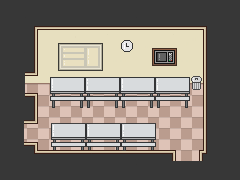
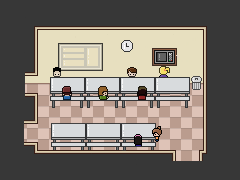
minor fixes

diff --git a/src/components/LevelTwoComponents.java b/src/components/LevelTwoComponents.java
@@ -70,53 +70,55 @@ public class LevelTwoComponents extends ScreenComponent {
 
         // the dialogue to be displayed in dialogue popups.
         String[] dialogue = {
-                "Let's play a game. I have these cards with questions and answers on them, and you pick what you think is the best answer.",
+                "What did you call me for?",
+                "I want us to play a game. I have these cards with questions and answers on them, and you pick what you think is the best answer.",
                 "Hm. Thanks for the advice, I guess?",
                 "Trust me. If you do the right things, you'll get over it.",
                 "I've experienced social anxiety myself. These cards helped me a ton. Listen, none of your fears are real. Get out there and try!",
                 "*Convinced* I- You didn't tell me?",
                 "For the same reason you didn't tell me.",
-                "Well then, thanks. I guess."
+                "Well then, thanks. I guess.",
         };
 
-        levelTwoDialogue = new DialoguePopup[7];
+        levelTwoDialogue = new DialoguePopup[8];
         levelTwoDialogue[0] = new DialoguePopup(
+                new ImageView(Tools.getImage(Constants.YOUNGER_SIBLING, 240, 280, true, true)),
+                "Younger Sibling", dialogue[0], () ->
+        {
+            this.setActivePopup(levelTwoDialogue[1]);
+        });
+        levelTwoDialogue[1] = new DialoguePopup(
                 new ImageView(Tools.getImage(Constants.OLDER_SIBLING, 240, 280, true, true)),
-                "Older Sibling", dialogue[0], () ->
+                "Older Sibling", dialogue[1], () ->
         {
             this.setActivePopup(null);
             this.setCurrentQuestion(questions[0]);
         });
-        for (int i = 1; i <= 6; ++i) {
+        for (int i = 2; i <= 7; ++i) {
             int finalI = i;
             levelTwoDialogue[i] = new DialoguePopup(
                     new ImageView(Tools.getImage(
-                            (i == 1 || i == 4 || i == 6) ? Constants.YOUNGER_SIBLING : Constants.OLDER_SIBLING, 240, 280, true, true)),
-                            (i == 1 || i == 4 || i == 6) ? "Younger Sibling" : "Older Sibling", dialogue[i], () -> {
-                this.setActivePopup(finalI == 6 ? null : levelTwoDialogue[finalI + 1]);
+                            (i == 2 || i == 5 || i == 7) ? Constants.YOUNGER_SIBLING : Constants.OLDER_SIBLING, 240, 280, true, true)),
+                            (i == 2 || i == 5 || i == 7) ? "Younger Sibling" : "Older Sibling", dialogue[i], () -> {
+                this.setActivePopup(finalI == 7 ? null : levelTwoDialogue[finalI + 1]);
             });
         }
         //level ending popup
         Popup ending = new Popup(() -> ((LevelTwoScreen) this.getScene()).nextScene());
-        levelTwoDialogue[6].setOnChangeRequest(() -> this.setActivePopup(ending));
+        levelTwoDialogue[7].setOnChangeRequest(() -> this.setActivePopup(ending));
         Rectangle bg = new Rectangle(0, 0, 960, 720);
         bg.setFill(Color.BLACK);
-        Text complete = new Text(250, 450, "Level 2 Completed.");
+        Text complete = new Text(250, 320, "Level 2 Completed.");
         complete.setFont(Tools.getCustomFont(Constants.PIXEL_FONT, 48));
         complete.setPickOnBounds(false);
         complete.setMouseTransparent(true);
         complete.setFill(Color.WHITE);
-        Text ret = new Text(110, 550, "SPACE to return to level select.");
+        Text ret = new Text(110, 450, "SPACE to return to level select.");
         ret.setFont(Tools.getCustomFont(Constants.PIXEL_FONT, 48));
         ret.setPickOnBounds(false);
         ret.setMouseTransparent(true);
         ret.setFill(Color.WHITE);
         ending.getChildren().addAll(bg, complete, ret);
-    }
-
-    // for improvement later
-    private void cardAnimations() {
-
     }
 
     /**
@@ -191,7 +193,7 @@ public class LevelTwoComponents extends ScreenComponent {
 
         if (curQuestionNum == TOTAL_QUESTIONS-1) {
             this.setCurrentQuestion(null);
-            this.setActivePopup(levelTwoDialogue[1]);
+            this.setActivePopup(levelTwoDialogue[2]);
         }
         else this.setCurrentQuestion(questions[++curQuestionNum]);
     }

diff --git a/src/components/LevelThreeComponents.java b/src/components/LevelThreeComponents.java
@@ -1,13 +1,11 @@
 package components;
 
 import javafx.scene.Cursor;
-import javafx.scene.image.Image;
 import javafx.scene.image.ImageView;
 import javafx.scene.paint.Color;
 import javafx.scene.shape.Rectangle;
 import javafx.scene.text.Text;
 import javafx.scene.text.TextAlignment;
-import scenes.LevelOneScreen;
 import scenes.LevelThreeScreen;
 import utilities.Constants;
 import utilities.Entity;
@@ -22,7 +20,7 @@ import java.util.Scanner;
 
 public class LevelThreeComponents extends ScreenComponent {
 
-    public static final int TOTAL_DIALOGUE = 6;
+    public static final int TOTAL_DIALOGUE = 7;
     public static final int TOTAL_ROOMS = 16;
     public static final int TOTAL_MINIGAMES = 5;
 
@@ -72,7 +70,8 @@ public class LevelThreeComponents extends ScreenComponent {
                 "Woah, the library! Maybe I can find the book I need for English class here.",
                 "I'm hungry, maybe I should buy something here.",
                 "I's lunchtime... maybe I should try talking with others instead of eating in the bathroom again.",
-                "Wow. Math. My favourite subject. I love math. Yay."
+                "Wow. Math. My favourite subject. I love math. Yay.",
+                "This door is locked."
         };
         for (int i = 0; i < TOTAL_DIALOGUE; ++i) {
             levelThreeDialogue[i] = new DialoguePopup(
@@ -199,6 +198,9 @@ public class LevelThreeComponents extends ScreenComponent {
             if (tasksComplete()) setActivePopup(ending);
             else setActivePopup(levelThreeDialogue[1]);
         });
+        schoolRooms[3].getRoomChangers().get(0).setOnChangeRequest(() -> {
+            setActivePopup(levelThreeDialogue[6]);
+        });
         schoolRooms[4].setRoomEnteredChangeRequest(() -> {
             if (!roomFound[4]) setActivePopup(levelThreeDialogue[2]);
         });
@@ -252,7 +254,7 @@ public class LevelThreeComponents extends ScreenComponent {
         schoolRooms[4].getRoomChangers().add(libMinigameLauncher);
         schoolRooms[4].getChildren().add(libMinigameLauncher);
 
-        roomFound[0] = true;
+        roomFound[0] = roomFound[3] = roomFound[8] = roomFound[11] = roomFound[13] = true;
         setCurrentRoom(schoolRooms[0]);
     }
 
@@ -268,8 +270,8 @@ public class LevelThreeComponents extends ScreenComponent {
         minigames[1] = new FriendMinigame(new ImageView(Tools.getImage(new File(Constants.DATA_PATH + "rooms\\cafeteria.png"),
                 960, 720, true, true)), this);
         minigames[2] = new ShopMinigame(new ImageView(Tools.getImage(Constants.CASHIER, 960, 720, true, true)), this);
-        minigames[3] = new PresentationMinigame(new ImageView(Tools.getImage(Constants.TEACHER, 960, 720, true, true)), this);
-        minigames[4] = new LibraryMinigame(new ImageView(Tools.getImage(Constants.LIBRARIAN, 960, 720, true, true)), this);
+        minigames[3] = new PresentationMinigame(new ImageView(Tools.getImage(Constants.TEACHER_BACKGROUND_1, 960, 720, true, true)), this);
+        minigames[4] = new LibraryMinigame(new ImageView(Tools.getImage(Constants.LIBRARIAN_BACKGROUND, 960, 720, true, true)), this);
     }
 
     private void setupAgenda() {
@@ -284,7 +286,11 @@ public class LevelThreeComponents extends ScreenComponent {
             "find the book for English at the library"
         };
         ImageView page = new ImageView(Tools.getImage(Constants.JOURNAL_BOX, 960, 720, true, true));
-        agenda.getChildren().add(page);
+
+        Rectangle darken = new Rectangle(0, 0, 960, 720);
+        darken.setFill(Color.color(0, 0, 0, 0.75));
+
+        agenda.getChildren().addAll(darken, page);
 
         checks = new ImageView[TOTAL_MINIGAMES];
 
@@ -306,7 +312,7 @@ public class LevelThreeComponents extends ScreenComponent {
         }
 
         agendaIcon = new ImageView(Tools.getImage(Constants.JOURNAL_ICON_2, 100, 100, true, true));
-        agendaIcon.setX(20);
+        agendaIcon.setX(820);
         agendaIcon.setY(100);
         agendaIcon.setOnMouseClicked(event -> {
             setActivePopup(agenda);

diff --git a/src/components/LibraryMinigame.java b/src/components/LibraryMinigame.java
@@ -59,7 +59,7 @@ public class LibraryMinigame extends Minigame {
         };
 
         minigameDialogue[0] = new DialoguePopup(
-                new ImageView(Tools.getImage(Constants.OLDER_SIBLING, 1, 1, true, true)),
+                new ImageView(Tools.getImage(Constants.LIBRARIAN, 240, 280, true, true)),
                 "Librarian", dialogue[0], () -> {
                     controller.setActivePopup(null);
                     choice.setVisible(true);
@@ -67,7 +67,7 @@ public class LibraryMinigame extends Minigame {
         );
 
         minigameDialogue[1] = new DialoguePopup(
-                new ImageView(Tools.getImage(Constants.OLDER_SIBLING, 1, 1, true, true)),
+                new ImageView(Tools.getImage(Constants.LIBRARIAN, 240, 280, true, true)),
                 "Librarian", dialogue[1], () -> {
             controller.setActivePopup(minigameDialogue[4]);
             controller.setActiveMinigame(null);
@@ -75,7 +75,7 @@ public class LibraryMinigame extends Minigame {
         );
 
         minigameDialogue[2] = new DialoguePopup(
-                new ImageView(Tools.getImage(Constants.OLDER_SIBLING, 1, 1, true, true)),
+                new ImageView(Tools.getImage(Constants.LIBRARIAN, 240, 280, true, true)),
                 "Librarian", dialogue[2], () -> {
             controller.setActivePopup(null);
             controller.setActiveMinigame(null);

diff --git a/src/utilities/Constants.java b/src/utilities/Constants.java
@@ -115,11 +115,19 @@ public class Constants {
 
     public static final File GOOD_CARD_DOWN = new File(DATA_PATH + "goodcarddown.png");
 
+    public static final File LIBRARIAN_BACKGROUND = new File(DATA_PATH + "librarianbackground.png");
+
     public static final File LIBRARIAN = new File(DATA_PATH + "librarian.png");
 
-    public static final File TEACHER = new File(DATA_PATH + "teacher.png");
+    public static final File TEACHER_BACKGROUND_1 = new File(DATA_PATH + "teacherbackground1.png");
+
+    public static final File TEACHER_1 = new File(DATA_PATH + "teacher1.png");
+
+    public static final File TEACHER_2 = new File(DATA_PATH + "teacher2.png");
 
     public static final File CASHIER = new File(DATA_PATH + "cashier.png");
+
+    public static final File STUDENT = new File(DATA_PATH + "student.png");
 
     public static final File CHECKBOX = new File(DATA_PATH + "checkbox.png");
 

diff --git a/src/components/MathMinigame.java b/src/components/MathMinigame.java
@@ -59,7 +59,7 @@ public class MathMinigame extends Minigame {
         };
 
         minigameDialogue[0] = new DialoguePopup(
-                new ImageView(Tools.getImage(Constants.OLDER_SIBLING, 1, 1, true, true)),
+                new ImageView(Tools.getImage(Constants.TEACHER_2, 240, 280, true, true)),
                 "Teacher", dialogue[0], () -> {
             controller.setActivePopup(null);
             choice.setVisible(true);
@@ -74,7 +74,7 @@ public class MathMinigame extends Minigame {
         });
 
         minigameDialogue[2] = new DialoguePopup(
-                new ImageView(Tools.getImage(Constants.OLDER_SIBLING, 1, 1, true, true)),
+                new ImageView(Tools.getImage(Constants.TEACHER_2, 240, 280, true, true)),
                 "Teacher", dialogue[2], () -> {
             controller.setActivePopup(null);
             controller.setActiveMinigame(null);

diff --git a/src/components/PresentationMinigame.java b/src/components/PresentationMinigame.java
@@ -60,12 +60,12 @@ public class PresentationMinigame extends Minigame {
         };
 
         minigameDialogue[0] = new DialoguePopup(
-                new ImageView(Tools.getImage(Constants.OLDER_SIBLING, 1, 1, true, true)),
+                new ImageView(Tools.getImage(Constants.TEACHER_1, 240, 280, true, true)),
                 "Teacher", dialogue[0], () -> { controller.setActivePopup(minigameDialogue[1]); }
         );
 
         minigameDialogue[1] = new DialoguePopup(
-                new ImageView(Tools.getImage(Constants.OLDER_SIBLING, 1, 1, true, true)),
+                new ImageView(Tools.getImage(Constants.TEACHER_1, 240, 280, true, true)),
                 "Teacher", dialogue[1], () -> {
                     controller.setActivePopup(null);
                     choice.setVisible(true);

diff --git a/src/components/AnxietyBar.java b/src/components/AnxietyBar.java
@@ -17,8 +17,8 @@ public class AnxietyBar extends Group {
         for (int i = 0; i < 4; ++i) {
             bars[i] = new ImageView(Tools.getImage(
                     new File(Constants.DATA_PATH + "bars\\bar" + (i+1) + ".png"), 300, 60, true, true));
-            bars[i].setX(40);
-            bars[i].setY(10);
+            bars[i].setX(775);
+            bars[i].setY(30);
             bars[i].setVisible(false);
             getChildren().add(bars[i]);
         }

diff --git a/src/components/FriendMinigame.java b/src/components/FriendMinigame.java
@@ -59,7 +59,7 @@ public class FriendMinigame extends Minigame {
         };
 
         minigameDialogue[0] = new DialoguePopup(
-                new ImageView(Tools.getImage(Constants.OLDER_SIBLING, 1, 1, true, true)),
+                new ImageView(Tools.getImage(Constants.STUDENT, 240, 280, true, true)),
                 "Student", dialogue[0], () -> {
                     controller.setActivePopup(null);
                     choice.setVisible(true);

diff --git a/src/components/SchoolRoom.java b/src/components/SchoolRoom.java
@@ -88,7 +88,7 @@ public class SchoolRoom extends ScreenComponent {
             this.getChildren().add(r);
         }
 
-        Text roomNameText = new Text(50, 100, roomName);
+        Text roomNameText = new Text(50, 80, roomName);
         roomNameText.setFont(Tools.getCustomFont(Constants.PIXEL_FONT, 26));
         roomNameText.setFill(Color.WHITE);
         this.getChildren().add(roomNameText);

diff --git a/src/components/DialoguePopup.java b/src/components/DialoguePopup.java
@@ -82,7 +82,7 @@ public class DialoguePopup extends Popup {
      */
     private void addComponents() {
         speaker.setX(80);
-        speaker.setY(220);
+        speaker.setY(240);
         this.getChildren().add(speaker);
         this.getChildren().add(dialogueBox);
 
